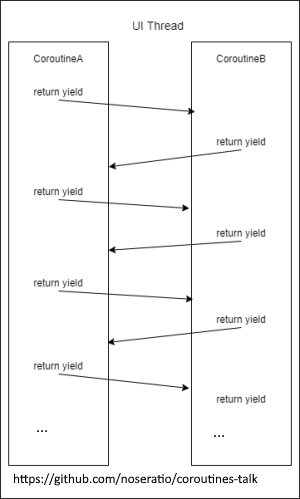
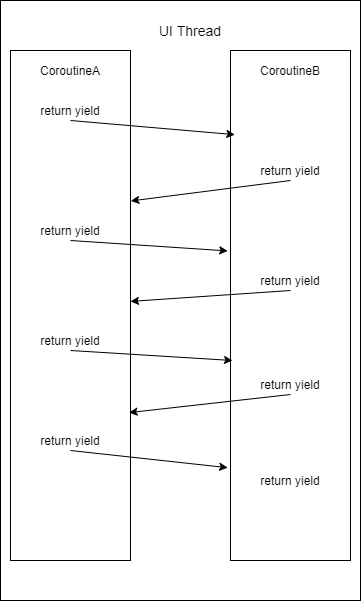
wording, code, references

Changed region(s): [[0.06, 0.9319, 0.87, 0.992]]

diff --git a/Coroutines/AsyncCoroutineDemoMutual.cs b/Coroutines/AsyncCoroutineDemoMutual.cs
@@ -12,30 +12,36 @@ namespace Coroutines
 {
     public static class AsyncCoroutineDemoMutual
     {
+        private const int intervalMs = 25;
+
         private static async IAsyncEnumerable<int> CoroutineA(
             IAsyncCoroutineProxy<int> coroutineProxy,
             [EnumeratorCancellation] CancellationToken token)
         {
             var coroutineB = await coroutineProxy.AsAsyncEnumerable(token);
 
-            // await for coroutineB to advance by 40 steps
-            await foreach (var step in coroutineB)
-            {
-                if (step >= 40)
-                    break;
-            }
-
             var inputIdler = new InputIdler();
             var interval = new Interval();
 
+            // await for coroutineB to advance by 40 steps
+            await foreach (var stepB in coroutineB)
+            {
+                if (stepB >= 40) break;
+                Console.SetCursorPosition(0, 0);
+                // display a throber
+                Console.Write($"{nameof(CoroutineA)}: {@"-\|/"[stepB % 4]}"); 
+                await interval.Delay(intervalMs, token);
+            }
+
+            // now do our own thing
             for (int i = 0; i < 80; i++)
             {
                 await inputIdler.Yield(token);
 
                 Console.SetCursorPosition(0, 0);
-                Console.Write($"{nameof(CoroutineA)}: {new String('A', i)}");
+                Console.Write($"{nameof(CoroutineA)}: {new String('A', i)}"); 
 
-                await interval.Delay(25, token);
+                await interval.Delay(intervalMs, token);
                 yield return i;
             }
         }
@@ -44,8 +50,11 @@ namespace Coroutines
         /// CoroutineB yields to CoroutineA
         /// </summary>
         private static async IAsyncEnumerable<int> CoroutineB(
+            IAsyncCoroutineProxy<int> coroutineProxy,
             [EnumeratorCancellation] CancellationToken token)
         {
+            var coroutineA = await coroutineProxy.AsAsyncEnumerable(token);
+
             var inputIdler = new InputIdler();
             var interval = new Interval();
 
@@ -56,8 +65,21 @@ namespace Coroutines
                 Console.SetCursorPosition(0, 1);
                 Console.Write($"{nameof(CoroutineB)}: {new String('B', i)}");
 
-                await interval.Delay(50, token);
+                await interval.Delay(intervalMs, token);
                 yield return i;
+
+                if (i == 40)
+                {
+                    // await for CoroutineA to catch up
+                    await foreach (var stepA in coroutineA)
+                    {
+                        if (stepA >= 40) break;
+                        Console.SetCursorPosition(0, 1);
+                        // display a throber
+                        Console.Write($"{nameof(CoroutineB)}: {new String('B', i)}{@"-\|/"[stepA % 4]}");
+                        await interval.Delay(intervalMs, token);
+                    }
+                }
             }
         }
 
@@ -79,7 +101,7 @@ namespace Coroutines
             // start both coroutines
             await Task.WhenAll(
                 proxyA.RunAsync(token => CoroutineA(proxyB, token), token),
-                proxyB.RunAsync(token => CoroutineB(token), token));
+                proxyB.RunAsync(token => CoroutineB(proxyA, token), token));
         }
     }
 }

diff --git a/Coroutines/AwaitForEach.cs b/Coroutines/AwaitForEach.cs
@@ -1,0 +1,53 @@
+// https://github.com/noseratio/coroutines-talk
+
+#nullable enable
+
+using System;
+using System.Collections.Generic;
+using System.Threading;
+using System.Threading.Tasks;
+
+namespace Coroutines
+{
+    /// <summary>
+    /// This is just to illustrate what "await foreach" does behind the scene
+    /// </summary>
+    public static partial class TaskExtensions
+    {
+        public static async ValueTask ForEachAsync<T>(
+            this IAsyncEnumerable<T> @this, 
+            Action<T> action, 
+            CancellationToken token = default)
+        {
+            await using var enumerator = @this.GetAsyncEnumerator(token);
+            while (await enumerator.MoveNextAsync())
+            {
+                action(enumerator.Current);
+            }
+        }
+
+        public static async ValueTask ForEachAsync<T>(
+            this IAsyncEnumerable<T> @this,
+            Func<T, Task> func,
+            CancellationToken token = default)
+        {
+            await using var enumerator = @this.GetAsyncEnumerator(token);
+            while (await enumerator.MoveNextAsync())
+            {
+                await func(enumerator.Current);
+            }
+        }
+
+        public static async ValueTask ForEachAsync<T>(
+            this IAsyncEnumerable<T> @this,
+            Func<T, ValueTask> func,
+            CancellationToken token = default)
+        {
+            await using var enumerator = @this.GetAsyncEnumerator(token);
+            while (await enumerator.MoveNextAsync())
+            {
+                await func(enumerator.Current);
+            }
+        }
+    }
+}

diff --git a/Coroutines/Program.cs b/Coroutines/Program.cs
@@ -126,12 +126,20 @@ namespace Coroutines
 
         public static void Main()
         {
-            var program = new Program();
-            Application.SetHighDpiMode(HighDpiMode.PerMonitorV2);
-            Application.SetUnhandledExceptionMode(UnhandledExceptionMode.CatchException);
-            Application.ThreadException += (s, e) => program.HandleException(e.Exception);
-            Application.Run(program.CreateUI());
             Console.Clear();
+            Console.CursorVisible = false;
+            try
+            {
+                var program = new Program();
+                Application.SetHighDpiMode(HighDpiMode.PerMonitorV2);
+                Application.SetUnhandledExceptionMode(UnhandledExceptionMode.CatchException);
+                Application.ThreadException += (s, e) => program.HandleException(e.Exception);
+                Application.Run(program.CreateUI());
+            }
+            finally
+            {
+                Console.CursorVisible = true;
+            }
         }
     }
 }

diff --git a/Coroutines/AsyncCoroutineDemo.cs b/Coroutines/AsyncCoroutineDemo.cs
@@ -82,12 +82,5 @@ namespace Coroutines
         }
 
         static readonly object _lock = new Object();
-
-        //await Task.Run(() =>
-        //{
-        //    lock (_lock)
-        //    {
-        //    }
-        //});
     }
 }

diff --git a/README.md b/README.md
@@ -1,7 +1,7 @@
 # Asynchronous coroutines with C# 8.0 and `IAsyncEnumerable`
 ## Introduction
 
-Coroutines are functions that yield and execute cooperatively, the concept that has been around for many decades. 
+[Coroutines](https://en.wikipedia.org/wiki/Coroutine) are functions that yield and execute cooperatively, the concept that has been around for many decades. 
 They are handy for script-like scenarios where the code execution flow can be suspended and resumed after each logical step. 
 
 Internally, coroutines use some sort of programming language syntax sugar for generating state machines methods. 
@@ -14,9 +14,9 @@ Now, with the compiler's support for `IAsyncEnumerable` it can be done naturally
 
 The execution environment for the code listed here is a Windows Forms .NET Core 3.1 app, but the same techniques can be used anywhere C# code runs. 
 
-**In-Kind Appeal**: Your feedback would be greatly appreciated, positive or negative. Feel free to [leave a comment](https://github.com/noseratio/coroutines-talk/issues) or [drop me a DM on Twitter](https://twitter.com/noseratio)🤓
+**In-Kind Appeal**: Your feedback would be greatly appreciated, positive or negative. Feel free to [leave a comment](https://github.com/noseratio/coroutines-talk/issues) or [drop me a DM on Twitter](https://twitter.com/noseratio) 🤓
 
-## Pull-based approach to coroutines (`IEnumerable`/`IEnumerator`)
+## Pull-based approach to coroutines with `IEnumerable`/`IEnumerator`
 
 This approach has been in use for over a decade, since `yield` was introduced in C# 2.0. Here is how a fade effect can be implemented as an `IEnumerator`-method in a Unity video game (borrowed from their [docs](https://docs.unity3d.com/Manual/Coroutines.html)). The use of `yield return` allows to "spread" the `for` loop across multiple frame generation iterations:
 
@@ -134,7 +134,7 @@ Ideally, we should be using `async`/`await` for awaiting the results of an actua
 
 Prior to C# 8, it wasn't possible to combine the two within the same method, but now we can do that.
 
-## Push-based approach to coroutines (`IAsyncEnumerable`/`IAsyncIEnumerator`)
+## Push-based approach to coroutines (or async pull) with `IAsyncEnumerable`/`IAsyncIEnumerator`
 
 In 2018, C# 8.0 introduced support for [asynchronous streams](https://docs.microsoft.com/en-us/dotnet/csharp/tutorials/generate-consume-asynchronous-stream) with new language and runtime features like: 
  - [`IAsyncEnumerable`](https://docs.microsoft.com/en-us/dotnet/api/system.collections.generic.iasyncenumerable-1?view=dotnet-plat-ext-3.1)
@@ -149,7 +149,7 @@ In a few words, similar to how `IEnumerable` is used to produce a stream of data
 
 And so by analogy with `IEnumerable`, we can use `IAsyncEnumerable`-methods to implement coroutines with async calls inside.
 
-Before we get to a [real life example](##A-real-life-scenario) of that, let's reproduce what we've done so far with `IEnumerable`-based `CoroutineA` and `CoroutineB`, but [using `IAsyncEnumerable` this time](https://github.com/noseratio/coroutines-talk/blob/main/Coroutines/AsyncCoroutineDemo.cs). We still want to run `return yield` continuations upon fixed timer intervals, but we also want to make sure there is no pending user input in the UI thread's message queue, before we proceed with any micro-task that runs on the UI thread. That's what [`inputIdler.Yield()`](https://github.com/noseratio/coroutines-talk/blob/main/Coroutines/InputIdler.cs) is for below:
+Before we get to a [real life example](###-A-real-life-scenario) of that, let's reproduce what we've done so far with `IEnumerable`-based `CoroutineA` and `CoroutineB`, but [using `IAsyncEnumerable` this time](https://github.com/noseratio/coroutines-talk/blob/main/Coroutines/AsyncCoroutineDemo.cs). We still want to run `return yield` continuations upon fixed timer intervals, but we also want to make sure there is no pending user input in the UI thread's message queue, before we proceed with any micro-task that runs on the UI thread. That's what [`inputIdler.Yield()`](https://github.com/noseratio/coroutines-talk/blob/main/Coroutines/InputIdler.cs) is for below:
 
 ```C#
 private static async IAsyncEnumerable<int> CoroutineA(
@@ -193,7 +193,7 @@ private static async IAsyncEnumerable<int> CoroutineB(
 }
 ```
 
-Both coroutines now run concurrently (albeit still on the same UI thread), as we don't want to put (say) `CoroutineA` on hold only because `CoroutineB` is asynchronously waiting for `Task.Delay`. There's still a way to synchronize, which I'll show in the next example. 
+Both coroutines now run concurrently (still on the same UI thread). We don't want to put (say) `CoroutineA` on hold only because `CoroutineB` is asynchronously waiting for `Task.Delay`. There's still a way to synchronize, which I'll show in the next example. 
 
 Here's [the dispatcher code](https://github.com/noseratio/coroutines-talk/blob/c5d917a54a40e9059af69e23f51171e16e0d8469/Coroutines/AsyncCoroutineDemo.cs#L67):
 
@@ -220,7 +220,17 @@ Running it:
 
 ![Running push-based coroutines](running-async-coroutines.png)
 
-Now, what if `CoroutineA` needs to synchronize upon the progress of `CoroutineB`? Below is [a made-up but simple example](https://github.com/noseratio/coroutines-talk/blob/main/Coroutines/AsyncCoroutineDemoMutual.cs), where `CoroutineA` starts progressing only when `CoroutineB` has already been half-way through its own flow:
+## Synchronizing the flow of asynchronous coroutines. 
+
+Now, what if `CoroutineA` needs to synchronize upon the progress of `CoroutineB`? Below is [a made-up but simple example](https://github.com/noseratio/coroutines-talk/blob/main/Coroutines/AsyncCoroutineDemoMutual.cs), where `CoroutineA` starts progressing only when `CoroutineB` has already been half-way through its own workflow. At that point, `CoroutineB` awaits for `CoroutineA` to catch up, then they both continue running to the end.
+
+We do that with a help of custom [`CoroutineProxy`](https://github.com/noseratio/coroutines-talk/blob/main/Coroutines/AsyncCoroutineProxy.cs), a helper class that wraps a .NET [`Channel`](https://devblogs.microsoft.com/dotnet/an-introduction-to-system-threading-channels/) to serve as an asynchronous queue for progress notifications from `IAsyncEnumerator.MoveNextAsync` of `CoroutineB`. 
+
+A `Channel` is like a pipe, we can push objects into one side of the pipe (with [`Channel.Writer.WriteAsync`](https://docs.microsoft.com/en-us/dotnet/api/system.threading.channels.channelwriter-1.writeasync?view=netcore-3.1)), and fetch them as an asynchronous stream from the other side (with [`Channel.Reader.ReadAllAsync`](https://docs.microsoft.com/en-us/dotnet/api/system.threading.channels.channelreader-1.readallasync?view=netcore-3.1)). 
+
+![Coroutines flow](mutual-coroutines-flow.png)
+
+`CoroutineA`:
 
 ```C#
 private static async IAsyncEnumerable<int> CoroutineA(
@@ -229,12 +239,41 @@ private static async IAsyncEnumerable<int> CoroutineA(
 {
     var coroutineB = await coroutineProxy.AsAsyncEnumerable(token);
 
+    var inputIdler = new InputIdler();
+    var interval = new Interval();
+
     // await for coroutineB to advance by 40 steps
-    await foreach (var step in coroutineB)
+    await foreach (var stepB in coroutineB)
     {
-        if (step >= 40)
-            break;
+        if (stepB >= 40) break;
+        Console.SetCursorPosition(0, 0);
+        // display a throber
+        Console.Write($"{nameof(CoroutineA)}: {@"-\|/"[stepB % 4]}"); 
+        await interval.Delay(intervalMs, token);
     }
+
+    // now do our own thing
+    for (int i = 0; i < 80; i++)
+    {
+        await inputIdler.Yield(token);
+
+        Console.SetCursorPosition(0, 0);
+        Console.Write($"{nameof(CoroutineA)}: {new String('A', i)}"); 
+
+        await interval.Delay(intervalMs, token);
+        yield return i;
+    }
+}
+```
+
+`CoroutineB`:
+
+```C#
+private static async IAsyncEnumerable<int> CoroutineB(
+    IAsyncCoroutineProxy<int> coroutineProxy,
+    [EnumeratorCancellation] CancellationToken token)
+{
+    var coroutineA = await coroutineProxy.AsAsyncEnumerable(token);
 
     var inputIdler = new InputIdler();
     var interval = new Interval();
@@ -243,18 +282,27 @@ private static async IAsyncEnumerable<int> CoroutineA(
     {
         await inputIdler.Yield(token);
 
-        Console.SetCursorPosition(0, 0);
-        Console.Write($"{nameof(CoroutineA)}: {new String('A', i)}");
+        Console.SetCursorPosition(0, 1);
+        Console.Write($"{nameof(CoroutineB)}: {new String('B', i)}");
 
-        await interval.Delay(25, token);
+        await interval.Delay(intervalMs, token);
         yield return i;
+
+        if (i == 40)
+        {
+            // await for CoroutineA to catch up
+            await foreach (var stepA in coroutineA)
+            {
+                if (stepA >= 40) break;
+                Console.SetCursorPosition(0, 1);
+                // display a throber
+                Console.Write($"{nameof(CoroutineB)}: {new String('B', i)}{@"-\|/"[stepA % 4]}");
+                await interval.Delay(intervalMs, token);
+            }
+        }
     }
 }
 ```
-
-We do that with a help of custom [`CoroutineProxy`](https://github.com/noseratio/coroutines-talk/blob/main/Coroutines/AsyncCoroutineProxy.cs), a helper class that wraps a .NET [`Channel`](https://devblogs.microsoft.com/dotnet/an-introduction-to-system-threading-channels/) to serve as an asynchronous queue for progress notifications from `IAsyncEnumerator.MoveNextAsync` of `CoroutineB`. A `Channel` is like a pipe, we can push objects into one side of the pipe (with [`Channel.Writer.WriteAsync`](https://docs.microsoft.com/en-us/dotnet/api/system.threading.channels.channelwriter-1.writeasync?view=netcore-3.1)), and fetch them as an asynchronous stream from the other side (with [`Channel.Reader.ReadAllAsync`](https://docs.microsoft.com/en-us/dotnet/api/system.threading.channels.channelreader-1.readallasync?view=netcore-3.1)). 
-
-[TODO: a diagram]
 
 As the [dispatcher code](https://github.com/noseratio/coroutines-talk/blob/c5d917a54a40e9059af69e23f51171e16e0d8469/Coroutines/AsyncCoroutineProxy.cs#L34) asynchronously iterates through the output of `CoroutineB` (with `await foreach`), it relays the received items by writing them to `Channel.Writer`, and then `CoroutineA` reads them from `Channel.Reader`:
 
@@ -294,7 +342,7 @@ private static async ValueTask RunCoroutinesAsync(CancellationToken token)
     // start both coroutines
     await Task.WhenAll(
         proxyA.RunAsync(token => CoroutineA(proxyB, token), token),
-        proxyB.RunAsync(token => CoroutineB(token), token));
+        proxyB.RunAsync(token => CoroutineB(proxyA, token), token));
 }
 ```
 
@@ -472,6 +520,15 @@ In our previous examples, we only dealt with concurrent execution on the same th
 ### Conclusion
 
 In my opinion, asynchronous coroutines can be an elegant solution to some niche consumer/producer scenarios, especially when there is no clear role separation between producer and consumer. The same kind of problems can certainly be solved with mature and powerful frameworks like [Reactive Extensions](https://github.com/dotnet/reactive) or [Dataflow](https://docs.microsoft.com/en-us/dotnet/standard/parallel-programming/dataflow-task-parallel-library). However, the learning curve to use [`IAsyncEnumerable`](https://docs.microsoft.com/en-us/archive/msdn-magazine/2019/november/csharp-iterating-with-async-enumerables-in-csharp-8) and [Channels](https://devblogs.microsoft.com/dotnet/an-introduction-to-system-threading-channels/) should be really low.
+
+### References
+
+- [Coroutines - Wikipedia](https://en.wikipedia.org/wiki/Coroutine)
+- [Coroutines - Unity](https://docs.unity3d.com/Manual/Coroutines.html)
+- [IResult and Coroutines - Caliburn.Micro](https://caliburnmicro.com/documentation/coroutines)
+- [Tutorial: Generate and consume async streams using C# 8.0 and .NET Core 3.0](https://docs.microsoft.com/en-us/dotnet/csharp/tutorials/generate-consume-asynchronous-stream)
+- [Iterating with Async Enumerables in C# 8](https://docs.microsoft.com/en-us/archive/msdn-magazine/2019/november/csharp-iterating-with-async-enumerables-in-csharp-8)
+- [C# events as asynchronous streams with ReactiveX or Channels](https://dev.to/noseratio/c-events-as-asynchronous-streams-with-reactivex-or-channels-82k)
 
 ### PS
 
